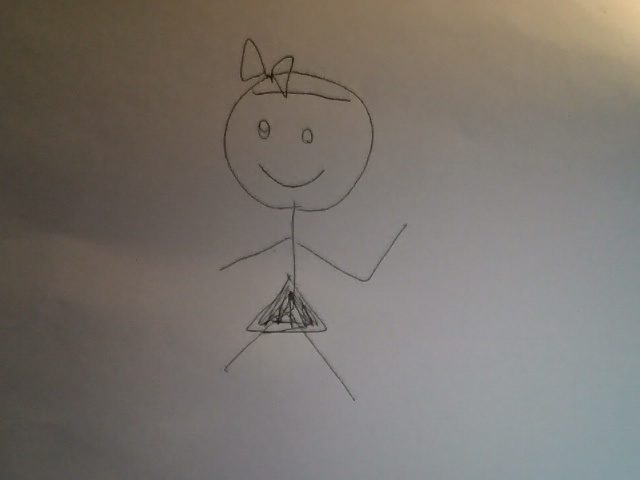
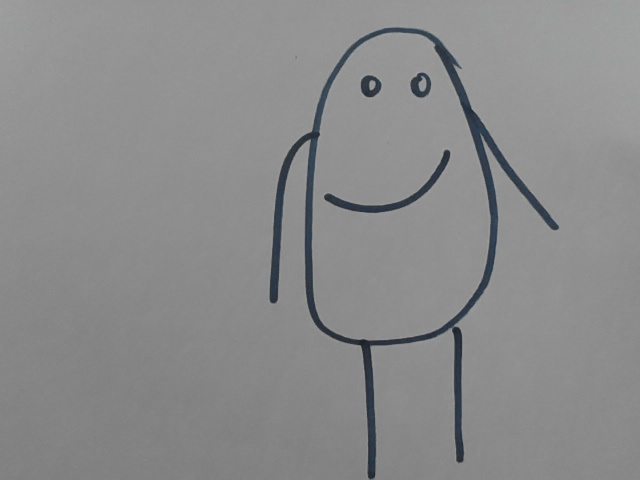
add read me and gitignore file

diff --git a/vision_agent_module.py b/vision_agent_module.py
@@ -45,7 +45,7 @@ def _parse_joints_content(content):
 def get_robot_joints(image_path):
     api_key = os.getenv("Agent_API_Key")
     api_url = os.getenv("Agent_URL")
-    model_id = os.getenv("Agent_MODEL", "google/gemini-3.1-flash")
+    model_id = os.getenv("Agent_MODEL")
 
     if not api_key or not api_url:
         raise ValueError("Agent_API_Key and Agent_URL must be set in the environment")